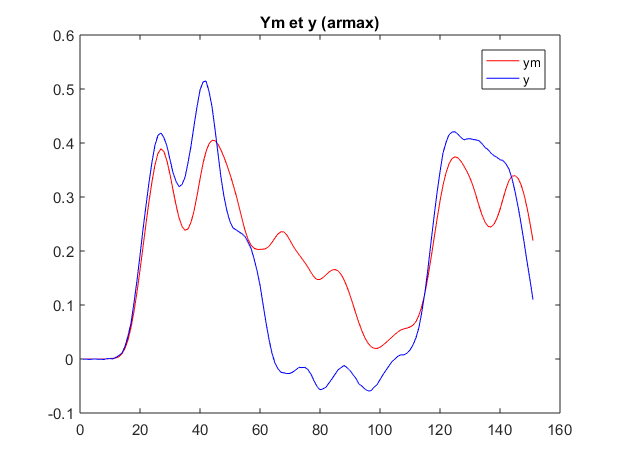
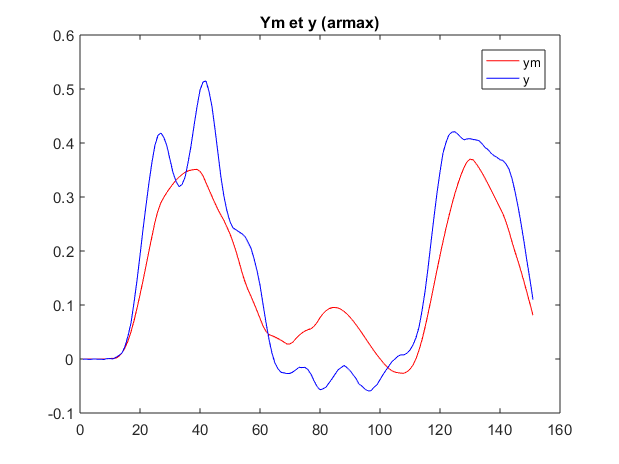
update rapport and clean files

diff --git a/ReportFiles/Rapport.md b/ReportFiles/Rapport.md
@@ -1,9 +1,3 @@
-<!-- 1- déterminer l'ordre du système, le retard et l'ordre du numérateur ;
-2- comparer les résultats obtenus avec deux méthodes, de votre choix, vues en cours et TD. Comparer les performances de ces méthodes et justifier le choix de la méthode retenue ;
-3- donner la fonction de transfert en échantillonné ;
-4- donner la fonction de transfert en continu ;
-5- quel est le gain statique ?
-6- donner la réponse à un échelon. -->
 #Compte-rendu mini-projet SY15
 
 ##Introduction
@@ -36,7 +30,7 @@ En traçant le critère en fonction de na, puis,nb, puis nc, nous avons trouvé 
 * nb = 2
 
 ![](cr_nc_armax.png)
-* nc = 2
+* nc = 1
 
 En comparant le modèle obtenu à la sortie réelle nous obtenons : 
 ![](ym_y_armax.png)
@@ -87,7 +81,7 @@ $$
 Le gain statique (s = 0) vaut : 
 
 $$
-\frac{0.007525}{0.04414 + 0.00727}
-= 0.15
+\frac{0.007525}{ 0.00727}
+= 1.035
 $$
 
